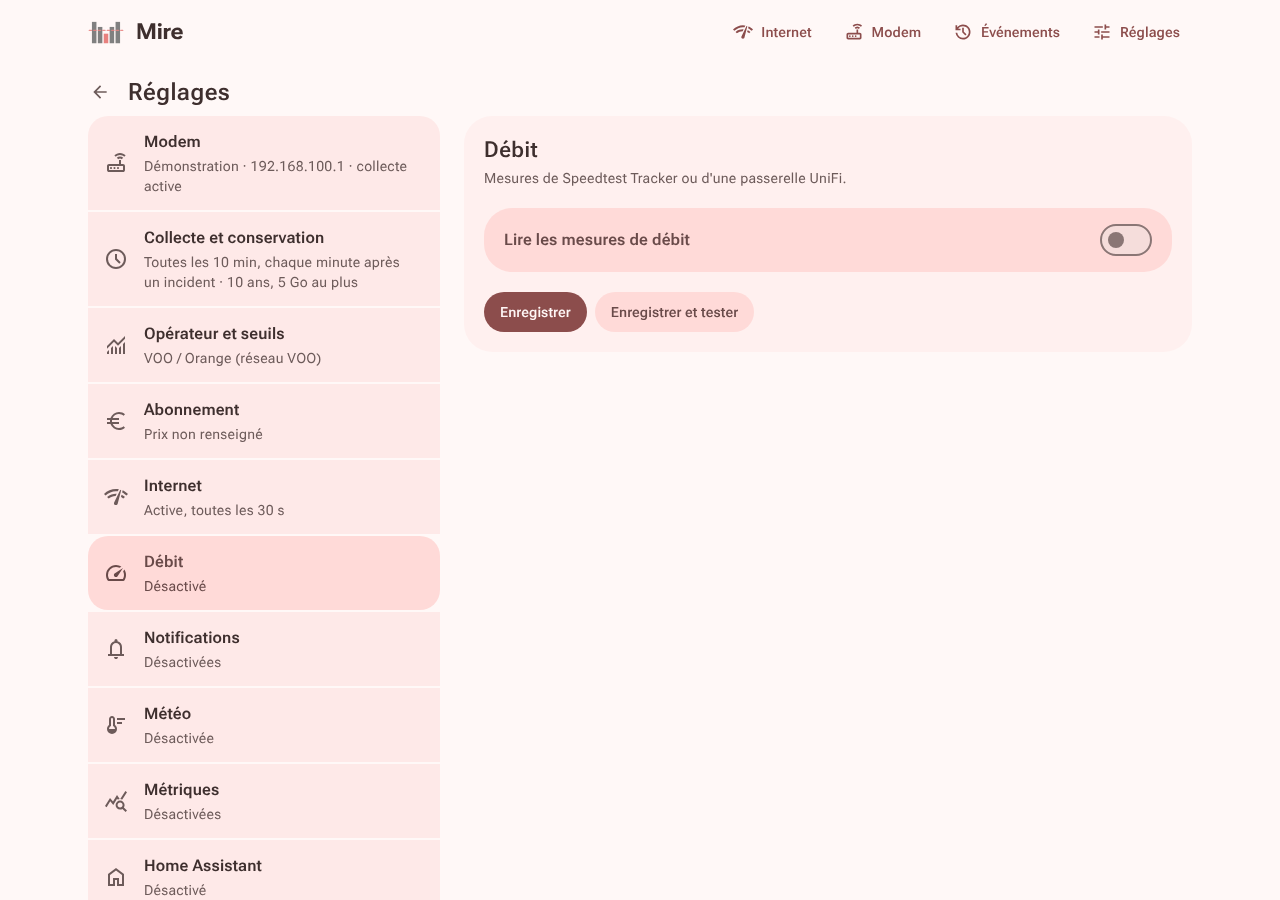
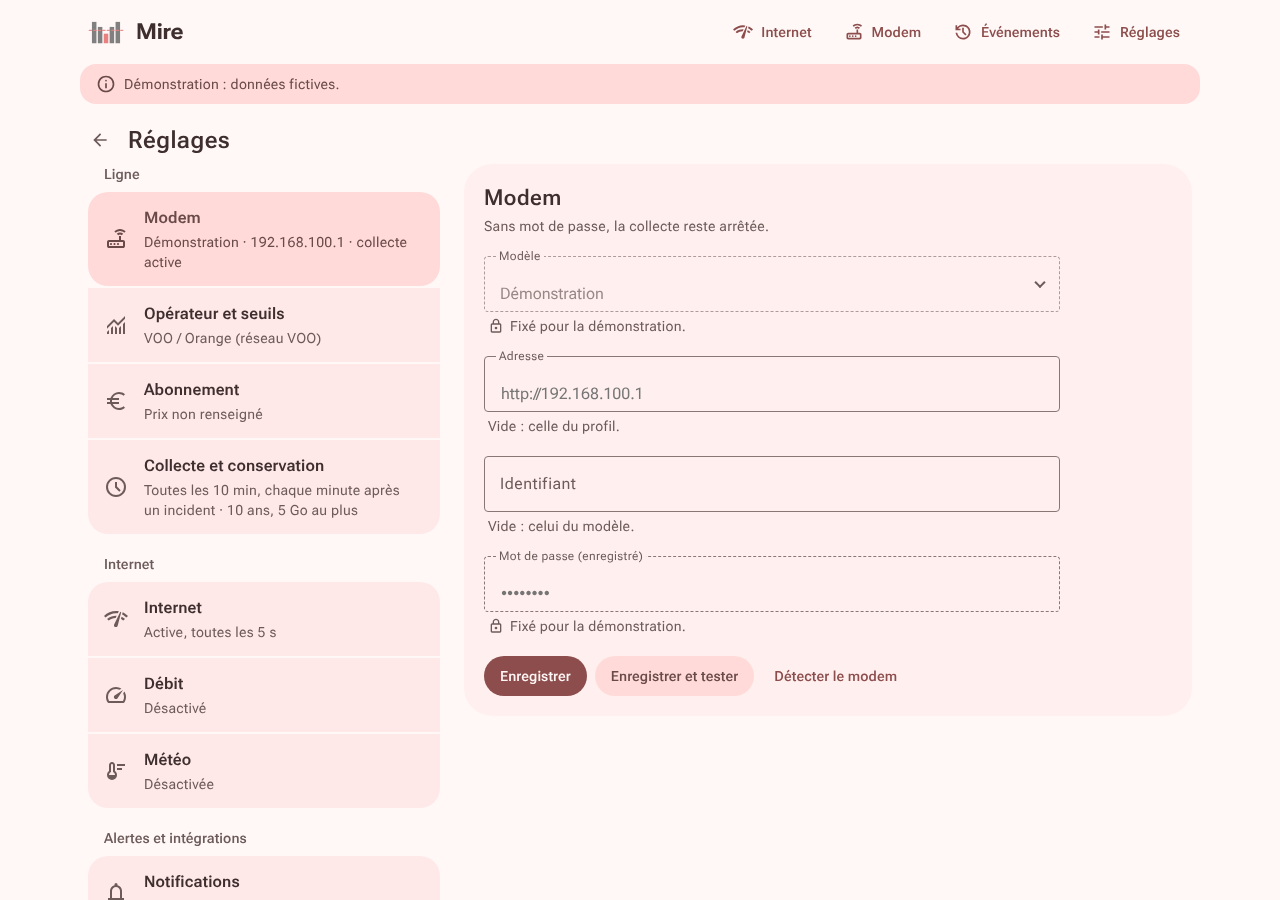
Mire 1.7.2
### Modifications

- Réglages rangés en quatre groupes : Ligne, Internet, Alertes et intégrations, Système

diff --git a/internal/webview/assets/mire.css b/internal/webview/assets/mire.css
@@ -518,6 +518,8 @@
     .page-head .to-home { display: none; }
   }
   .nav-list { list-style: none; margin: 0; padding: 0; display: grid; gap: 2px; }
+  .nav-heading { margin: 20px 16px 8px; color: var(--md-sys-color-on-surface-variant); }
+  .settings-nav > .nav-heading:first-child { margin-top: 0; }
   .nav-list li a { display: grid; grid-template-columns: auto 1fr auto; align-items: center; gap: 16px; padding: 14px 16px; min-height: 64px; color: inherit; text-decoration: none; background: var(--md-sys-color-surface-container); transition: border-radius var(--ressort-rapide-duree) var(--ressort-rapide), background-color var(--effet-duree) var(--effet); }
   .nav-list li:first-child a { border-start-start-radius: var(--md-sys-shape-corner-large-increased); border-start-end-radius: var(--md-sys-shape-corner-large-increased); }
   .nav-list li:last-child a { border-end-start-radius: var(--md-sys-shape-corner-large-increased); border-end-end-radius: var(--md-sys-shape-corner-large-increased); }

diff --git a/internal/webview/templates/reglages.html b/internal/webview/templates/reglages.html
@@ -10,13 +10,16 @@
 
 <div class="settings{{if .Explicit}} chosen{{end}}">
  <nav class="settings-nav" aria-label="Rubriques des réglages">
+  {{range .NavSections}}
+  <h2 class="nav-heading label-l">{{.Title}}</h2>
   <ul class="nav-list">
-   {{range .Nav}}<li><a href="/reglages/{{.ID}}"{{if .Current}} class="current"{{if $.Explicit}} aria-current="page"{{end}}{{end}}>
+   {{range .Items}}<li><a href="/reglages/{{.ID}}"{{if .Current}} class="current"{{if $.Explicit}} aria-current="page"{{end}}{{end}}>
     {{icon .Icon}}
     <span class="nav-text"><span class="title-m">{{.Title}}</span><small class="body-m{{if .Attention}} attention{{end}}">{{.Summary}}</small></span>
     <span class="chevron">{{icon "suivant"}}</span>
    </a></li>{{end}}
   </ul>
+  {{end}}
  </nav>
 
  <div class="settings-detail">

diff --git a/internal/webview/reglages.go b/internal/webview/reglages.go
@@ -79,6 +79,8 @@ const sectionSecurity = "securite"
 type reglagesView struct {
 	common
 	Nav []navItem
+	// NavSections range les rubriques sous leurs intertitres.
+	NavSections []navSection
 	// Section est la rubrique affichee ; Explicit dit qu'elle a ete choisie.
 	// Sur un ecran etroit, la page sans rubrique choisie n'affiche que la
 	// liste ; sur un ecran large, liste et rubrique sont cote a cote.
@@ -230,6 +232,57 @@ var sectionIcons = map[string]string{
 	"modem": "modem", "collecte": "collecte", "analyse": "analyse", "sonde": "connexion",
 	"notifications": "notifications", "metriques": "metriques", "domotique": "maison", "meteo": "meteo", "abonnement": "abonnement", "debit": "debit", "journal": "note", "versions": "versions",
 	"sauvegarde": "telecharger", sectionSecurity: "verrou",
+}
+
+// navSection est un intertitre de la liste des reglages et ses rubriques.
+type navSection struct {
+	Title string
+	Items []navItem
+}
+
+// navLayout range les rubriques par theme. Une rubrique absente de la liste
+// rejoint la derniere section : aucune ne disparait.
+var navLayout = []struct {
+	title string
+	ids   []string
+}{
+	{"Ligne", []string{"modem", "analyse", "abonnement", "collecte"}},
+	{"Internet", []string{"sonde", "debit", "meteo"}},
+	{"Alertes et intégrations", []string{"notifications", "domotique", "metriques"}},
+	{"Système", []string{"journal", "sauvegarde", "versions", sectionSecurity}},
+}
+
+// sections range les rubriques sous leurs intertitres, dans l'ordre de
+// navLayout ; une section vide est omise.
+func sections(items []navItem) []navSection {
+	byID := make(map[string]navItem, len(items))
+	for _, it := range items {
+		byID[it.ID] = it
+	}
+	placed := map[string]bool{}
+	out := make([]navSection, 0, len(navLayout))
+	for _, l := range navLayout {
+		sec := navSection{Title: l.title}
+		for _, id := range l.ids {
+			if it, ok := byID[id]; ok {
+				sec.Items = append(sec.Items, it)
+				placed[id] = true
+			}
+		}
+		out = append(out, sec)
+	}
+	for _, it := range items {
+		if !placed[it.ID] {
+			out[len(out)-1].Items = append(out[len(out)-1].Items, it)
+		}
+	}
+	kept := out[:0]
+	for _, sec := range out {
+		if len(sec.Items) > 0 {
+			kept = append(kept, sec)
+		}
+	}
+	return kept
 }
 
 func (s *Server) nav(ctx context.Context, st service.State, current string) []navItem {
@@ -439,6 +492,7 @@ func (s *Server) reglagesView(r *http.Request, section string, explicit bool, in
 	st := s.opts.Service.State()
 	v := reglagesView{common: s.commonFor(r, "Réglages"), Section: section, Explicit: explicit}
 	v.Nav = s.nav(r.Context(), st, section)
+	v.NavSections = sections(v.Nav)
 	for _, n := range v.Nav {
 		if n.ID == section {
 			v.SectionTitle = n.Title

diff --git a/internal/webview/reglages_test.go b/internal/webview/reglages_test.go
@@ -478,3 +478,44 @@ func TestLaPremiereVisiteDonneLAdresseDesNotifications(t *testing.T) {
 		t.Errorf("adresse %q", got)
 	}
 }
+
+func TestReglagesRangesParTheme(t *testing.T) {
+	h, cookie := serveurAvec(t, 1, essai{Collecting: true})
+	body := get(t, h, cookie, "/reglages").Body.String()
+	// Intertitres dans l'ordre, chaque rubrique sous le sien.
+	// La recherche part de la liste : l'en-tete porte aussi « Internet ».
+	last := strings.Index(body, "settings-nav")
+	for _, mot := range []string{
+		">Ligne<", "/reglages/modem\"", "/reglages/analyse\"", "/reglages/collecte\"",
+		">Internet<", "/reglages/sonde\"", "/reglages/debit\"", "/reglages/meteo\"",
+		">Alertes et intégrations<", "/reglages/notifications\"", "/reglages/domotique\"", "/reglages/metriques\"",
+		">Système<", "/reglages/journal\"", "/reglages/sauvegarde\"", "/reglages/versions\"", "/reglages/securite\"",
+	} {
+		i := strings.Index(body[last:], mot)
+		if i < 0 {
+			t.Errorf("%s absent ou mal placé", mot)
+			continue
+		}
+		last += i
+	}
+}
+
+func TestToutesLesRubriquesSontRangees(t *testing.T) {
+	var items []navItem
+	for _, g := range settings.Groups() {
+		items = append(items, navItem{ID: g.ID})
+	}
+	items = append(items, navItem{ID: sectionSecurity}, navItem{ID: "nouvelle"})
+	n := 0
+	for _, sec := range sections(items) {
+		n += len(sec.Items)
+	}
+	if n != len(items) {
+		t.Errorf("%d rubriques rangées sur %d", n, len(items))
+	}
+	// Une rubrique oubliee dans navLayout rejoint « Système », sans disparaitre.
+	secs := sections(items)
+	if got := secs[len(secs)-1].Items; got[len(got)-1].ID != "nouvelle" {
+		t.Error("rubrique inconnue perdue")
+	}
+}

diff --git a/docs/configuration.md b/docs/configuration.md
@@ -4,22 +4,22 @@
 
 Un changement s'applique aussitôt, sans redémarrer.
 
-| Rubrique | Contenu |
-|---|---|
-| Modem | modèle, adresse, identifiant et mot de passe ; « Enregistrer et tester », « Détecter le modem » |
-| Collecte et conservation | intervalle entre deux relevés, relevés rapprochés après un incident, durée et taille de conservation |
-| Opérateur et seuils | profil d'opérateur, modulation habituelle de la voie montante OFDMA |
-| Abonnement | prix mensuel, pour la compensation légale (opérateur belge) |
-| Internet | sonde de connexion : cibles et intervalle |
-| Débit | source (Speedtest Tracker ou passerelle UniFi), adresse, jeton ou clé API, compte local UniFi, essai |
-| Notifications | service, événements envoyés, essai |
-| Météo | commune ou coordonnées, essai ; température pour la page Tendance |
-| Métriques | publication sur `/metrics`, jeton d'accès |
-| Home Assistant | serveur MQTT, identifiant, préfixe de découverte, bouton de redémarrage, essai |
-| Journal | niveau de détail, dernières lignes du service, téléchargement |
-| Sauvegarde | copie automatique chaque jour, nombre de copies gardées, téléchargement d'une copie |
-| Nouvelles versions | avis d'une nouvelle version, désactivé par défaut |
-| Sécurité | mot de passe de l'interface |
+| Groupe | Rubrique | Contenu |
+|---|---|---|
+| Ligne | Modem | modèle, adresse, identifiant et mot de passe ; « Enregistrer et tester », « Détecter le modem » |
+|  | Opérateur et seuils | profil d'opérateur, modulation habituelle de la voie montante OFDMA |
+|  | Abonnement | prix mensuel, pour la compensation légale (opérateur belge) |
+|  | Collecte et conservation | intervalle entre deux relevés, relevés rapprochés après un incident, durée et taille de conservation |
+| Internet | Internet | sonde de connexion : cibles et intervalle |
+|  | Débit | source (Speedtest Tracker ou passerelle UniFi), adresse, jeton ou clé API, compte local UniFi, essai |
+|  | Météo | commune ou coordonnées, essai ; température pour la page Tendance |
+| Alertes et intégrations | Notifications | service, événements envoyés, essai |
+|  | Home Assistant | serveur MQTT, identifiant, préfixe de découverte, bouton de redémarrage, essai |
+|  | Métriques | publication sur `/metrics`, jeton d'accès |
+| Système | Journal | niveau de détail, dernières lignes du service, téléchargement |
+|  | Sauvegarde | copie automatique chaque jour, nombre de copies gardées, téléchargement d'une copie |
+|  | Nouvelles versions | avis d'une nouvelle version, désactivé par défaut |
+|  | Sécurité | mot de passe de l'interface |
 
 ![Page Réglages](images/reglages.png)
 
